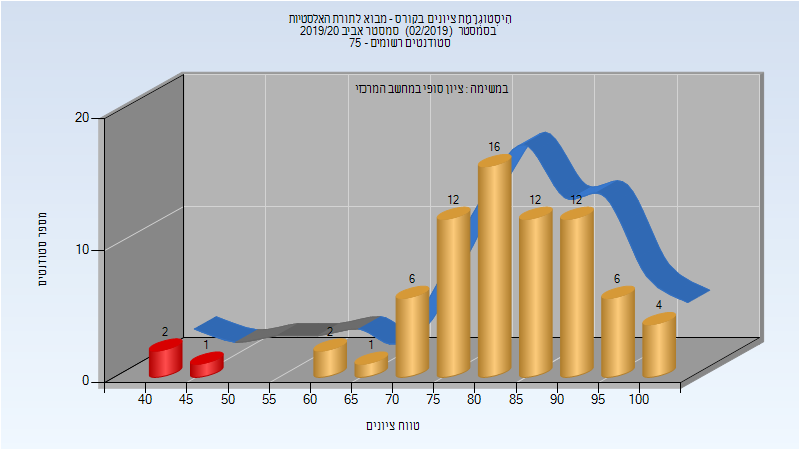
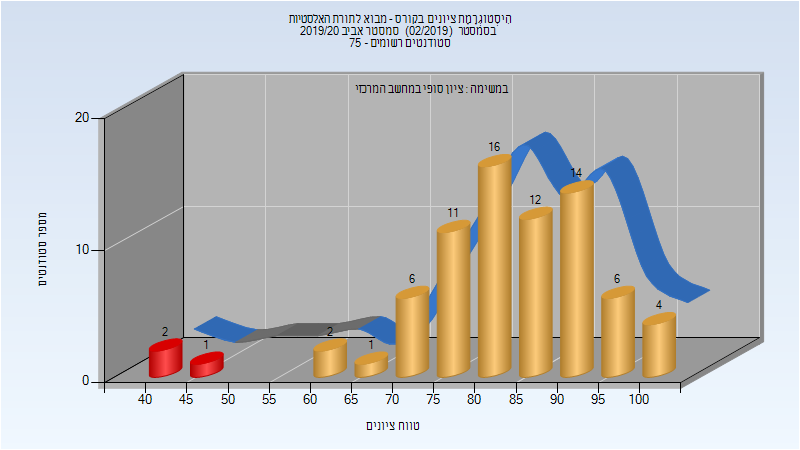
Deploy michael-maltsev/technion-histograms to github.com/michael-maltsev/technion-histograms.git:gh-pages

Changed region(s): [[0.6875, 0.3422, 0.8438, 0.56], [0.5312, 0.4356, 0.5938, 0.5289], [0.625, 0.3111, 0.6562, 0.4044]]

diff --git a/324991/index.html b/324991/index.html
@@ -35,19 +35,19 @@
 <td>מרצה - אחראי מקצוע</td>
 </tr>
 <tr>
-<td>איסמן ליסה</td>
-<td>סגל מנהלי - עם הרשאות מרצה אחראי</td>
-</tr>
-<tr>
-<td>בן ענת רוחמה</td>
-<td>סגל מנהלי - עם הרשאות מרצה אחראי</td>
-</tr>
-<tr>
 <td>הראל אילנה</td>
 <td>סגל מנהלי - עם הרשאות מרצה אחראי</td>
 </tr>
 <tr>
+<td>איסמן ליסה</td>
+<td>סגל מנהלי - עם הרשאות מרצה אחראי</td>
+</tr>
+<tr>
 <td>בורנשטיין יעל</td>
+<td>סגל מנהלי - עם הרשאות מרצה אחראי</td>
+</tr>
+<tr>
+<td>בן ענת רוחמה</td>
 <td>סגל מנהלי - עם הרשאות מרצה אחראי</td>
 </tr>
 </tbody>

diff --git a/084515/index.html b/084515/index.html
@@ -309,12 +309,12 @@
 </thead>
 <tbody>
 <tr>
-<td>74</td>
-<td>71/3</td>
+<td>75</td>
+<td>72/3</td>
 <td>96</td>
 <td>42</td>
 <td>100</td>
-<td>82.824</td>
+<td>83.12</td>
 <td>83</td>
 </tr>
 </tbody>

diff --git a/324991/README.md b/324991/README.md
@@ -5,10 +5,10 @@
 | איש סגל | תפקיד |
 | ---- | ---- |
 | נוב יובל | מרצה - אחראי מקצוע |
-| איסמן ליסה | סגל מנהלי - עם הרשאות מרצה אחראי |
-| בן ענת רוחמה | סגל מנהלי - עם הרשאות מרצה אחראי |
 | הראל אילנה | סגל מנהלי - עם הרשאות מרצה אחראי |
+| איסמן ליסה | סגל מנהלי - עם הרשאות מרצה אחראי |
 | בורנשטיין יעל | סגל מנהלי - עם הרשאות מרצה אחראי |
+| בן ענת רוחמה | סגל מנהלי - עם הרשאות מרצה אחראי |
 
 ### סופי מועד א'
 

diff --git a/084515/README.md b/084515/README.md
@@ -92,5 +92,5 @@
 
 | סטודנטים | עברו/נכשלו | אחוז עוברים | ציון מינימלי | ציון מקסימלי | ממוצע | חציון |
 | ---- | ---- | ---- | ---- | ---- | ---- | ---- |
-| 74 | 71/3 | 96 | 42 | 100 | 82.824 | 83 |
+| 75 | 72/3 | 96 | 42 | 100 | 83.12 | 83 |
 
